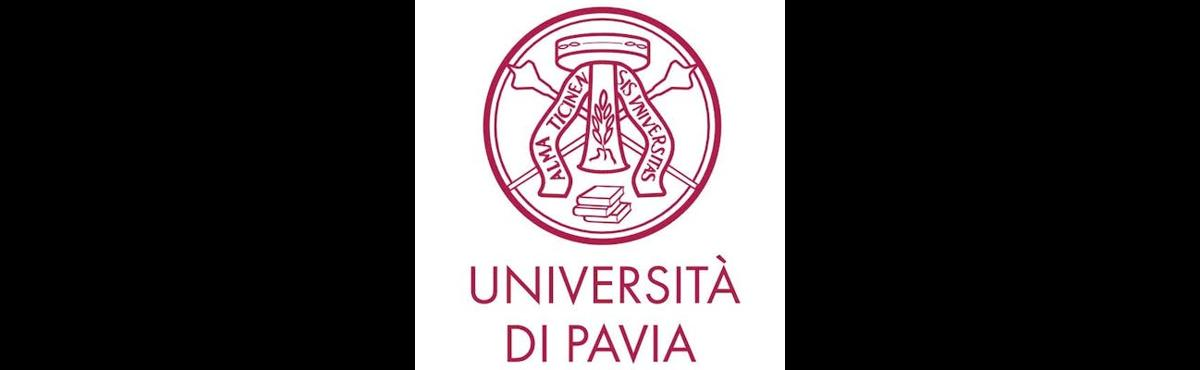
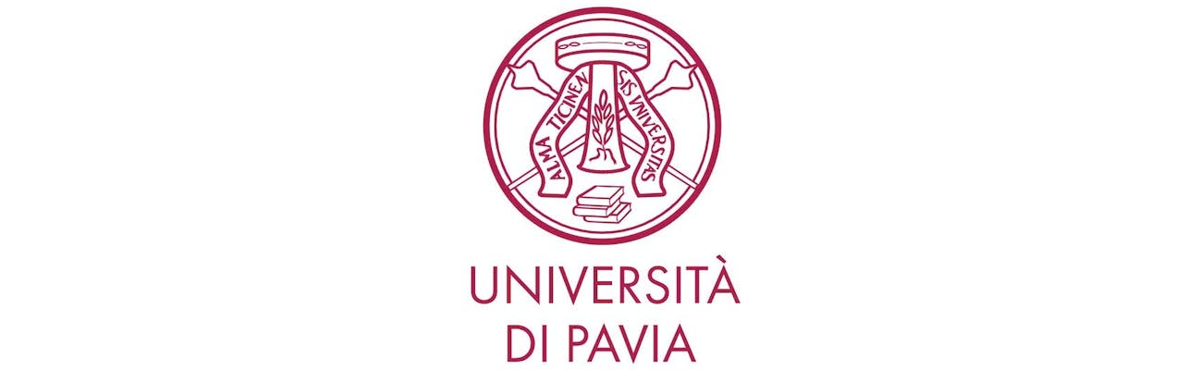
image processing fixed

diff --git a/scholarships/models.py b/scholarships/models.py
@@ -21,22 +21,18 @@ def upload_location(instance, filename, **kwargs):
     return file_path
 
 
-def upload_location2(instance, filename, **kwargs):
-    file_path = 'scholarship-icon-images/{filename}'.format(
-        filename=filename
-    )
-    return file_path
-
-
-
-
-
 def upload_location3(instance, filename, **kwargs):
     file_path = '{filename}'.format(
         filename=filename
     )
     return file_path
 
+
+def upload_location2(instance, filename, **kwargs):
+    file_path = 'scholarship-icon-images/{filename}'.format(
+        filename=filename
+    )
+    return file_path
 
 
 class Tag(models.Model):
@@ -126,7 +122,8 @@ class Scholarship(models.Model):
         # Image cropping logic using Pillow
         if self.Scholarship_image:
             image_path = self.Scholarship_image.path
-            img = Image.open(image_path)
+            img = Image.open(image_path).convert('RGB')
+
 
             # Resize the image to fit within a 1200x370 box
             img.thumbnail((1200, 370))
@@ -138,23 +135,25 @@ class Scholarship(models.Model):
             left = (1200 - img.width) // 2
             top = (370 - img.height) // 2
 
+            # Delete the original gfdgvbfdvb
+            default_storage.delete(image_path)
+
             # Paste the resized image onto the transparent background
             background.paste(img, (left, top))
 
             # Convert the image to RGB mode
             img_rgb = background.convert('RGB')
 
+
             # Save the processed image in PNG format
             output_io = BytesIO()
             img_rgb.save(output_io, format='PNG')
             output_io.seek(0)
 
-                        # Delete the original image
-            self.Scholarship_image.delete(save=False)
-
             # Save the processed image back to the original field
             file_path = upload_location3(self, self.Scholarship_image.name.split('/')[-1])
             self.Scholarship_image.save(file_path, ContentFile(output_io.getvalue()), save=False)
+            
             
         
 
